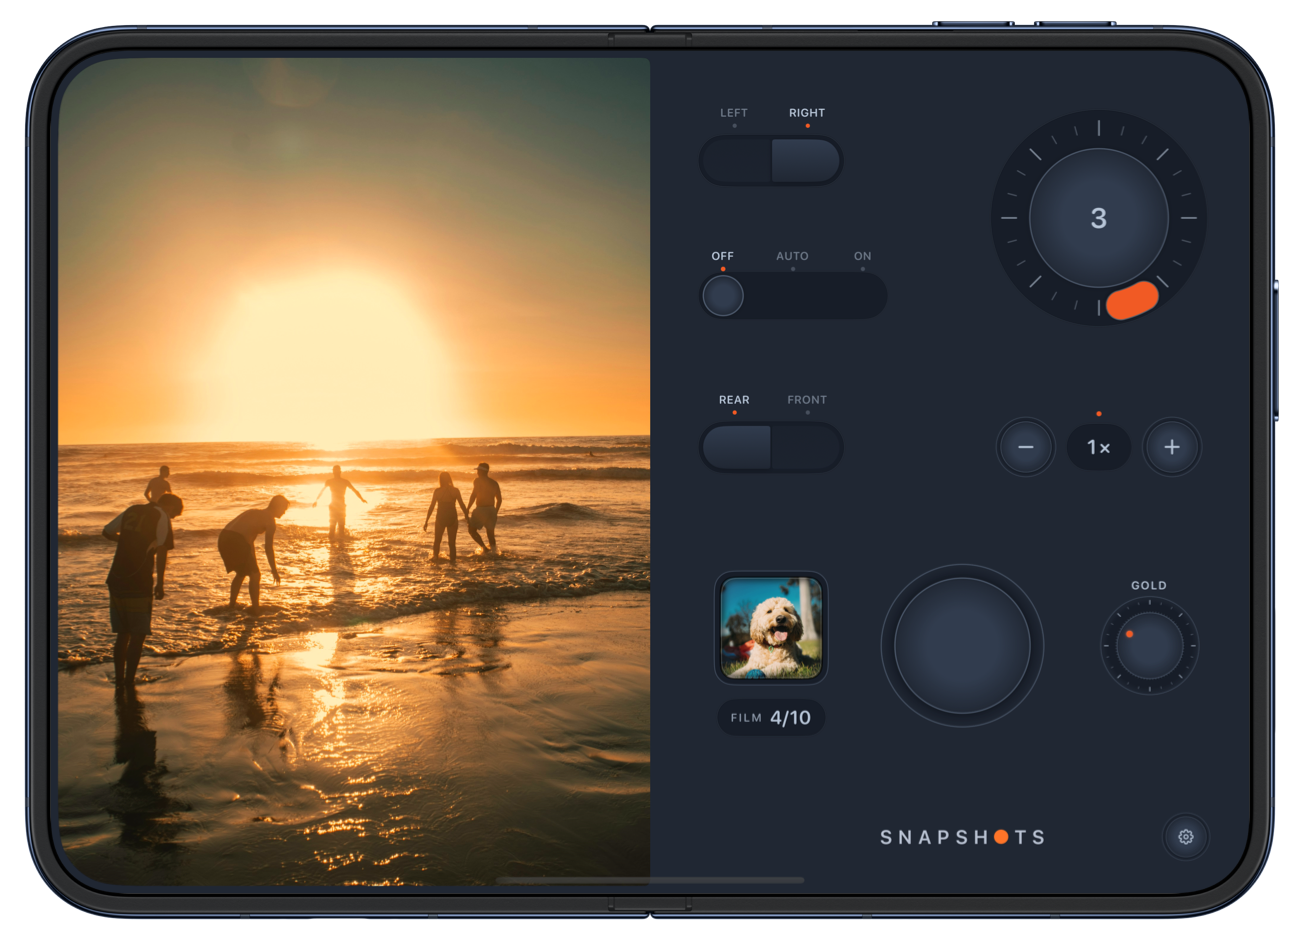
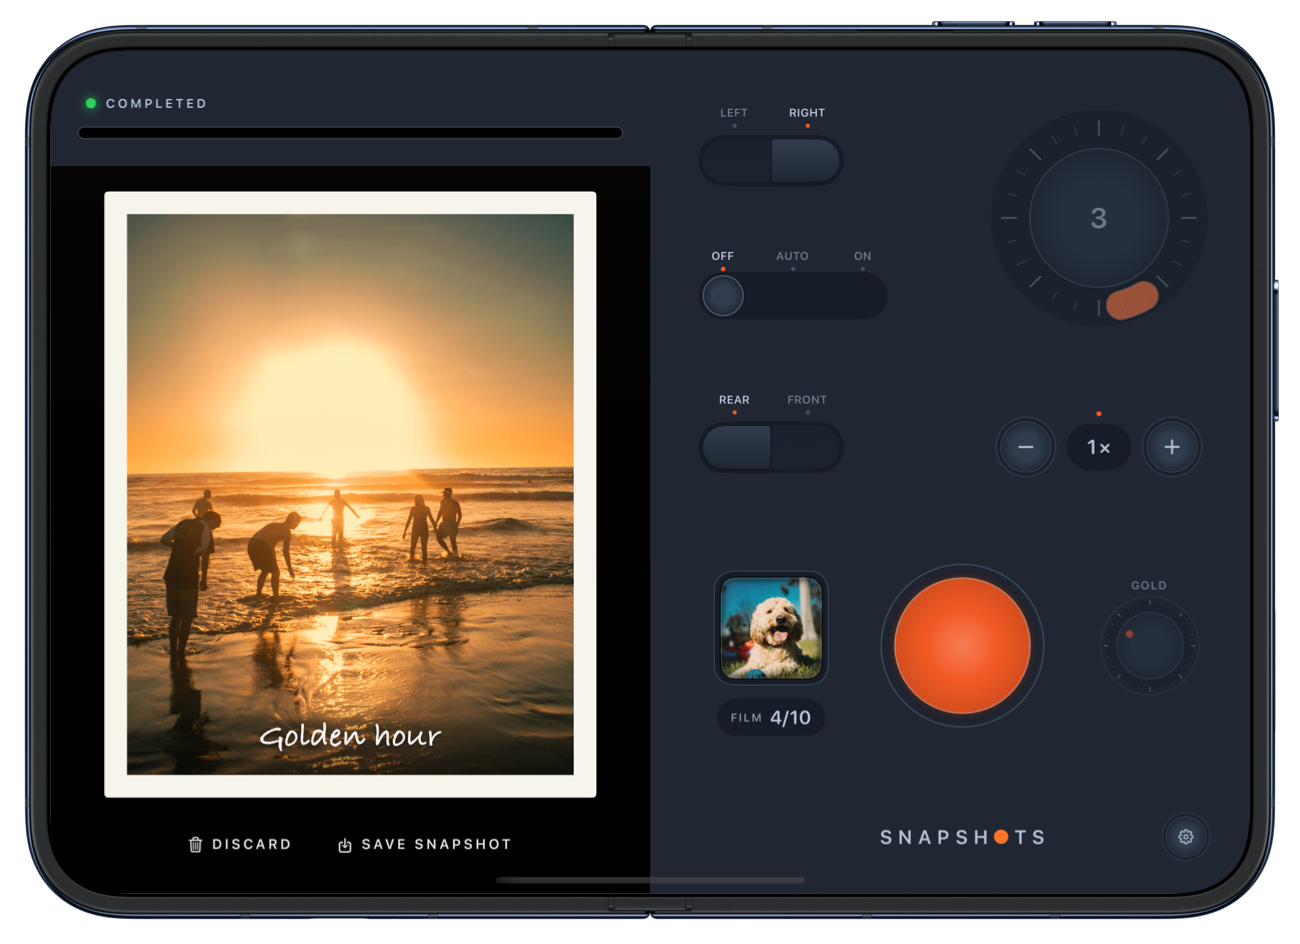
iPhone Duo section: the Landscape view with a finished print

diff --git a/app/index.html b/app/index.html
@@ -179,7 +179,7 @@
           <p>The picture fades up like instant film. Shake to hurry it along, then write a caption across it.</p>
         </div>
       </div>
-      <div class="device mock reveal"><picture><source srcset="../duo/m/landscape-night.avif?v=1" type="image/avif"><img src="../duo/m/landscape-night.png?v=1" width="1300" height="944" alt="Snapshots on an iPhone Duo open in Landscape, in the Night Sky theme: the viewfinder on the left screen, the camera controls on the right with the self-timer set." loading="lazy"></picture></div>
+      <div class="device mock reveal"><picture><source srcset="../duo/m/landscape-night.avif?v=2" type="image/avif"><img src="../duo/m/landscape-night.png?v=2" width="1300" height="944" alt="Snapshots on an iPhone Duo open in Landscape, in the Night Sky theme: a finished print captioned Golden hour on the left screen, the camera controls on the right." loading="lazy"></picture></div>
     </div>
   </div>
 </section>
